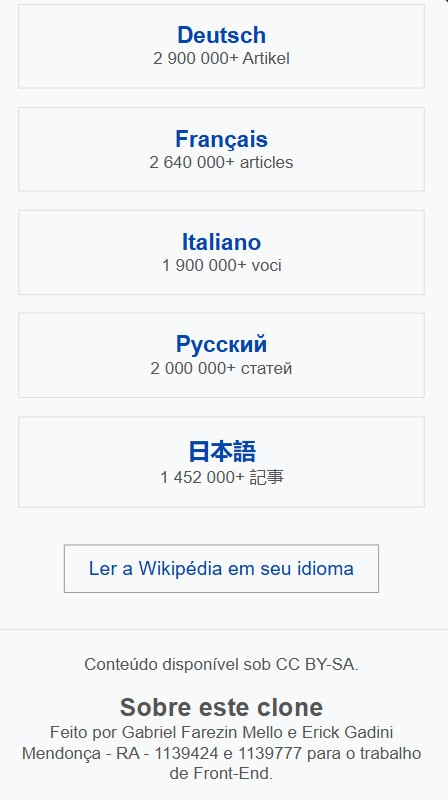
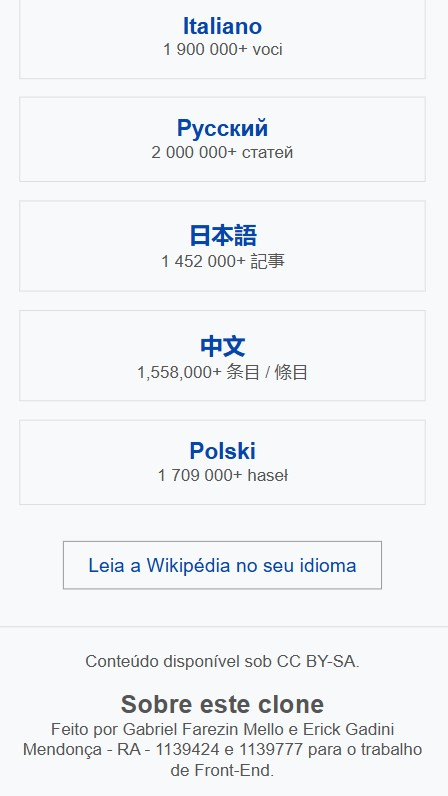
Criei o README com o checklist, as diferenças em relação ao original e os prints

diff --git a/README.md b/README.md
@@ -1,0 +1,71 @@
+Trabalho G1 Front-End - Clone da Wikipédia
+
+Nomes: Gabriel Farezin Mello e Erick Gadini Mendonça
+
+Matrículas: 1139424 e 1139777
+
+Site de referência: https://www.wikipedia.org
+
+Escolhemos a página inicial da Wikipédia porque é uma página só e tem um formulário, que é a busca.
+
+Checklist da Parte 1
+
+1.1 Estrutura HTML semântica e acessível - feito
+
+1.2 Fidelidade visual à referência - feito
+
+1.3 CSS: seletores, box model e variáveis - feito
+
+1.4 Responsividade: Flexbox e mobile first - feito
+
+1.5 Personalização e originalidade - feito
+
+1.1 Estrutura HTML semântica e acessível
+
+Na página original da Wikipédia o conteúdo é dividido em cabeçalho (nome e lema), conteúdo (idiomas, globo e busca) e rodapé (texto sobre a Fundação Wikimedia e links para outros projetos). Por isso usamos header, main e footer. Os idiomas são links de navegação, então usamos nav em vez de section. O globo é uma imagem e por isso usamos img com alt descrevendo a imagem. No original a busca é um campo com seletor de idioma e um botão com lupa, sem o texto Buscar aparecendo. No nosso clone deixamos o texto Buscar visível, e ele tem label ligado ao campo pelo for e pelo id. No validador do W3C apareceu que a section da busca não tinha título e que os h3 pulavam o h2, então colocamos um h2 escondido na busca e os erros sumiram.
+
+1.2 Fidelidade visual à referência
+
+Copiamos a organização geral do original: título e lema em cima, idiomas, busca, botão de idiomas e rodapé. Usamos os mesmos 10 idiomas, título com fonte com serifa, links azuis, o globo e o botão Leia a Wikipédia no seu idioma. No desktop os idiomas ficam sem caixa, como no original.
+
+Diferenças e o motivo de cada uma:
+
+- O print do original foi tirado com o navegador no modo escuro, e o site muda de acordo com o tema. O nosso clone só tem o tema claro, com fundo cinza claro.
+- No original o globo fica grande no meio dos idiomas, e os idiomas ficam em duas colunas em volta dele. No nosso o globo é pequeno em cima do título e os idiomas ficam em linhas, porque é mais fácil de fazer responsivo com Flexbox.
+- Os números de artigos dos idiomas estão diferentes dos atuais do original.
+- O título do original usa letras maiúsculas menores (small caps) com uma fonte própria. Usamos a fonte Georgia porque é gratuita e parecida.
+- A busca do original tem seletor de idioma (PT) e botão com lupa. A nossa tem o texto Buscar, o campo e um botão com texto, sem seletor.
+- O botão do original tem ícone e uma setinha. O nosso é só o texto.
+- O rodapé do original tem a Fundação Wikimedia e links para outros projetos (Commons, Wikivoyage, Wikcionário). O nosso só tem a licença e a parte Sobre este clone.
+
+Original no desktop:
+
+![Print da Wikipédia original no desktop](imagens/OriginalDesktop.jpg)
+
+Nosso clone no desktop:
+
+![Print do nosso clone no desktop](imagens/CloneDesktop.jpg)
+
+Original no celular:
+
+![Print da Wikipédia original no celular](imagens/OriginalCelular.jpg)
+
+Nosso clone no celular (parte de cima):
+
+![Print do nosso clone no celular, parte de cima](imagens/CloneCelular.jpg)
+
+Nosso clone no celular (parte de baixo):
+
+![Print do nosso clone no celular, parte de baixo](imagens/CloneCelular2.jpg)
+
+1.3 CSS: seletores, box model e variáveis
+
+Criamos variáveis no :root para as cores (link, azul do botão e cinza dos textos) e para a fonte do título, assim se quiser mudar uma cor é só mudar em um lugar. Usamos seletor de elemento (body, footer), de classe (.card, .busca, .idiomas), descendente (header h1, .card a, .busca input) e pseudo-classe (.busca button:hover, .card a:hover h3). No box model usamos margin e padding zerados no começo com box-sizing border-box, para a largura já contar o padding e a borda. Depois usamos padding dentro dos cards e botões, border nas caixas dos cards e margin auto para centralizar o globo. Também comentamos os blocos do CSS.
+
+1.4 Responsividade: Flexbox e mobile first
+
+Fizemos o CSS primeiro para o celular, e ele funciona sem nenhuma media query, com os cards um embaixo do outro. Usamos Flexbox na busca e na lista de idiomas. Depois colocamos uma media query com min-width de 768px, que deixa os cards lado a lado (4 por linha) e tira a borda deles. Testamos no celular (F12 do Chrome) e no desktop e funcionou nos dois.
+
+1.5 Personalização e originalidade
+
+No rodapé colocamos a seção Sobre este clone, com nossos nomes e matrículas. Ela não existe no site original.
